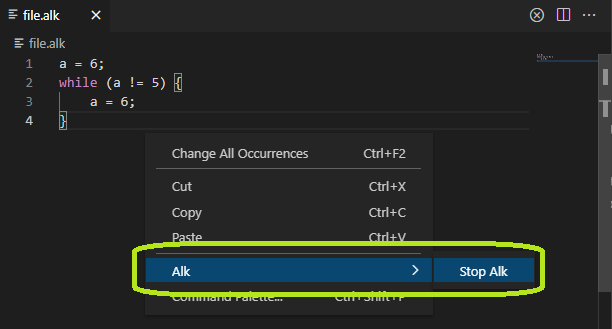
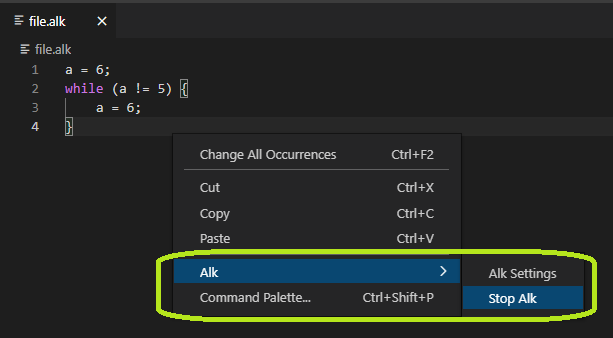
Modified readme, added settings option to submenu

diff --git a/src/extension.ts b/src/extension.ts
@@ -322,9 +322,14 @@ export function activate(context: vscode.ExtensionContext) {
         }
     });
 
+    let optionsDisposable = vscode.commands.registerCommand('alk.options', () => {
+        vscode.commands.executeCommand('workbench.action.openSettings', '@ext:AlkUaic.Alk');
+    });
+
     context.subscriptions.push(disposable);
     context.subscriptions.push(exhaustiveDisposable);
     context.subscriptions.push(stopDisposable);
+    context.subscriptions.push(optionsDisposable);
     //context.subscriptions.push(
     //    vscode.window.registerWebviewViewProvider(AlkViewProvider.viewType, alkProvider)
     //);
@@ -339,7 +344,12 @@ async function vers(context: vscode.ExtensionContext) {
         }
         var response = await axios.get("https://api.github.com/repos/alk-language/java-semantics/releases/latest");
         if (response['data']['tag_name'] !== data) {
-            vscode.window.showInformationMessage(`Updating Alk from ${data} to latest version (${response['data']['tag_name']})`);
+            if (data === 'not installed') {
+                vscode.window.showInformationMessage(`Setting up Alk for the first time`);
+            }
+            else {
+                vscode.window.showInformationMessage(`Updating Alk from ${data} to latest version (${response['data']['tag_name']})`);
+            }
             console.log('Updating alk');
             await downloadAlk(response['data']['tag_name'], alkPath);
         }

diff --git a/README.md b/README.md
@@ -1,7 +1,5 @@
 # Alk Visual Studio Code Extension
 
-## English
-
 Extension for the `Alk` programming language. Right now, the following features are present:
   * Recognition of files with the `.alk` extension
   * The option to directly run files with the `.alk` extension, with different options
@@ -9,7 +7,7 @@ Extension for the `Alk` programming language. Right now, the following features 
   * Syntax highlighting
   * Auto-update and first install of the files needed to run `Alk`
 
-### How to use:
+## How to use:
   * In order to run an `Alk` file, you can press the run button in the top-right menu and choose the desired option (exhaustive or not).</br>
   ![run](/media/pics/runalk-menu.png)ics/runalk-menu.png)ics/runalk-menu.png)
   </br></br></br>
@@ -22,30 +20,26 @@ Extension for the `Alk` programming language. Right now, the following features 
   * Or right click on the active editor and use the option from the `Alk` submenu.<br>
   ![run](/media/pics/stop-click.png)
   </br></br></br>
-  * The settings of `Alk` can be changed by using the `Command Pallete` (default keybind `Ctrl+Shift+P`) and searching for `settings`. </br>
+  * The settings of `Alk` can be accessed using the `Alk Settings` options from the `Alk` submenu when right clicking.
+  ![run](/media/pics/settings-click.png)
+  * They can also be accessed by using the `Command Pallete` (default keybind `Ctrl+Shift+P`) and searching for `settings`. </br>
   ![run](/media/pics/settings.png)
-  </br></br> Then we search for `alk` to easily find the options.</br>
+  </br></br> Then searching for `alk` to easily find the options.</br>
   ![run](/media/pics/alk-settings.png)
-  * The options that change most frequently are chaged from the `ALK OPTIONS` tab.</br>
-  ![run](/media/pics/alk-opt.png)
-  </br></br></br>
-  * Here we have the `Input` option. We can get the input form eiter a file, or by directly writing it in the interface.
-  ![run](/media/pics/input.png)
-  </br></br> The `Add` button adds a new `(name |-> value)` and the `Remove` button removes it.<br>
+  * The `Input` options allow the use as input of either of file or a configuration directly written in the interface. The `Input Active` option must be checked to use custom input.
+  </br></br> To create input directly from the interface first the `text` option must be choosen in `Input Type`, and then key-value pairs can be added, removed and modified in the `Input Text` setting.</br>
   ![run](/media/pics/input-act.png)
-  </br></br> The `Save` button saves input from the interface in a file in the current directory. You will have to enter the file's name in the prompt from the top of the screen.</br>
-  ![run](/media/pics/save-input.png)
-  </br></br>Now we can choose the created file, or any file, as input instead of using pairs defined in the interface.</br>
+  </br></br>To use a file as input first the `file` option must be choosen in `Input Type`, and then the name of the file must be entered in the `Input File` setting.</br>
   ![run](/media/pics/input-file.png)
 
-  ### Useful links
+  ## Useful links
   Read the [reference manual](https://github.com/alk-language/java-semantics/wiki/Reference-Manual) to review the Alk syntax.
   Also consider the [Alk-by example](https://github.com/alk-language/java-semantics/wiki/Alk-by-examples) wiki to understand how Alk behaves in real-scenarios.
 
   If you want to also run the `Alk` interpreter from the command line, it is strongly recommended to include the folder `Linux_Mac` or `Windows` in the PATH environment variable. 
   This allows you to call the the interpreter without mentioning the path to its location.
   
-  ### Set Alk in PATH system variable
+  ## Set Alk in PATH system variable
   Note that in the following instructions, ```[ALK-PATH]``` is a placeholder for the actual place where `Alk` is.
 
   In order to find the ```[ALK-PATH]``` needed below, you can run an `Alk` program through the extension with the `Show Command` option enabled from the setting, and you will see the full path to the `alki.sh` of `alki.bat` script.
@@ -70,85 +64,6 @@ Extension for the `Alk` programming language. Right now, the following features 
   * For `Variable name` put `Alk`, and for `Variable value` put ```[ALK-PATH]```
   
   To test if it works, the following command can be ran:
-  ```
-  alki -h
-  ```
-
-## Română
-
-Extensie pentru limbajul `Alk`. În acest moment are următoarele feature-uri:
-  * Recunoașterea fișierelor cu extensia `.alk`
-  * Opțiunea de a rula direct fișiere cu extensia `.alk`, cu diferite opțiuni
-  * Output-ul este interpretat, afișând direct pe cod erorile create
-  * Syntax highlighting
-  * Actualizare automată și instalarea inițială a fișierelor de care este nevoie pentru a rula `Alk`
-
-### Cum se folosește:
-  * Pentru a rula un fisier cu cod de `Alk`, se poate apăsa pe butonul de run din meniul din dreapta sus, și apoi selectată opțiunea dorită.</br>
-  ![run](/media/pics/runalk-menu.png)
-  </br></br></br>
-  * O altă metodă de a rula un astfel de fișier este să se apese click dreapta, și
-  să se folosească meniul de `Alk` care apare.</br>
-  ![run](/media/pics/runalk-click.png)
-  </br></br></br>
-  * Pentru a opri execuția unui program deja pornit, se poate apăsa pe butonul din meniul din dreapta sus.</br>
-  ![run](/media/pics/stop.png)
-  </br></br></br>
-  * O altă metodă de a opri un program pornit este să se apese click dreapta, și
-  să se folosească din meniul de `Alk` opțiunea `Stop Alk`.</br>
-  ![run](/media/pics/stop-click.png)
-  </br></br></br>
-  * Pentru a modifica setările pentru `Alk` ne folosim de `Command Palette` (Se deschide standard cu `Ctrl+Shift+P`). Aici se dă search după `settings`.</br>
-  ![run](/media/pics/settings.png)
-  </br></br>Apoi căutăm `alk` și ne vor apărea setările pentru `Alk`.</br>
-  ![run](/media/pics/alk-settings.png)
-  </br></br></br>
-  * Anumite setări care se vor schimba mai des sunt puse în 
-  tabul de `ALK OPTIONS`.</br>
-  ![run](/media/pics/alk-opt.png)
-  </br></br></br>
-  * Aici avem opțiunea de `Input`. Se poate selecta pentru `Input` fie un fișier, 
-  fie se pot introduce direct variabile și valorile lor.</br>
-  ![run](/media/pics/input.png)
-  </br></br>Butonul `Add` va adăuga o nouă pereche de tipul `(variabila |-> valoare)`, iar butonul `Remove` o va șterge.</br>
-  ![run](/media/pics/input-act.png)
-  </br></br>Butonul `Save` va salva input-ul creat într-un fișier. Va trebui introdus numele fișierului în prompt-ul care va apărea în partea de sus a ecranului.</br>
-  ![run](/media/pics/save-input.png)
-  </br></br>Acum putem alege fișierul creat, sau alt fișier, ca și input în loc să folosim perechi create in interfață.</br>
-  ![run](/media/pics/input-file.png)
-
-  ### Link-uri utile
-  Puteți citi [manualul de referinta](https://github.com/alk-language/java-semantics/wiki/Reference-Manual) pentru a vă familiariza cu sintaxa `Alk`.
-  De asemenea puteți citi wiki-ul [Alk-by example](https://github.com/alk-language/java-semantics/wiki/Alk-by-examples) pentru a înțelege cum se poate utiliza `Alk` într-un context real.
-
-  Dacă doriți șa rulați interpretorul `Alk` și de la linia de comanda, este recomandat să includeți folder-ul `Linux_Mac` sau `Windows` în variabila de mediu PATH. 
-  Astfel veți putea apela interpretorul `Alk` fără a specifica calea completă către acesta.
-
-### Adăugare `Alk` la PATH
-În cele ce urmează ```[ALK-PATH]``` va fi un placeholder pentru locația unde se află `Alk-ul`. Pentru a găsi path-ul pentru `Alk` se poate rula un program `Alk` cu opțiunea `Show command` pornită. Path-ul complet va apărea în consolă.
-![run](/media/pics/alk-line.png)
-* Linux/Mac OS:
-  ```
-  export PATH=[ALK-PATH]/bin:$PATH
-  ```
-  Asta va seta PATH-ul doar pentru shell-ul curent. Dacă alt shell va fi deschis el nu va avea `Alk` setat in PATH. Pentru a rămâne setat global, trebuie folosit:
-  ```
-  echo 'PATH=[ALK-PATH]/bin:$PATH' >> ~/.bashrc
-  ```
-  
-  Se testează dacă merge cu:
-  ```
-  alki.sh -h
-  ```
-  
-* Windows
-  * Se dă search după ```Edit the system environment variables```
-  * Se deschide fereastra ```System Properties``` și se apasă pe ```Environment variables...```
-  * Se selectează din tabelul de jos (```System variables```) variabila ```Path``` și se apasă pe ```Edit...```
-  * Se apasă pe ```New...``` 
-  * La `Variable name` se pune `Alk`, iar la `Variable value` se pune ```[ALK-PATH]```
-
-  Se testează dacă merge cu:
   ```
   alki -h
   ```
